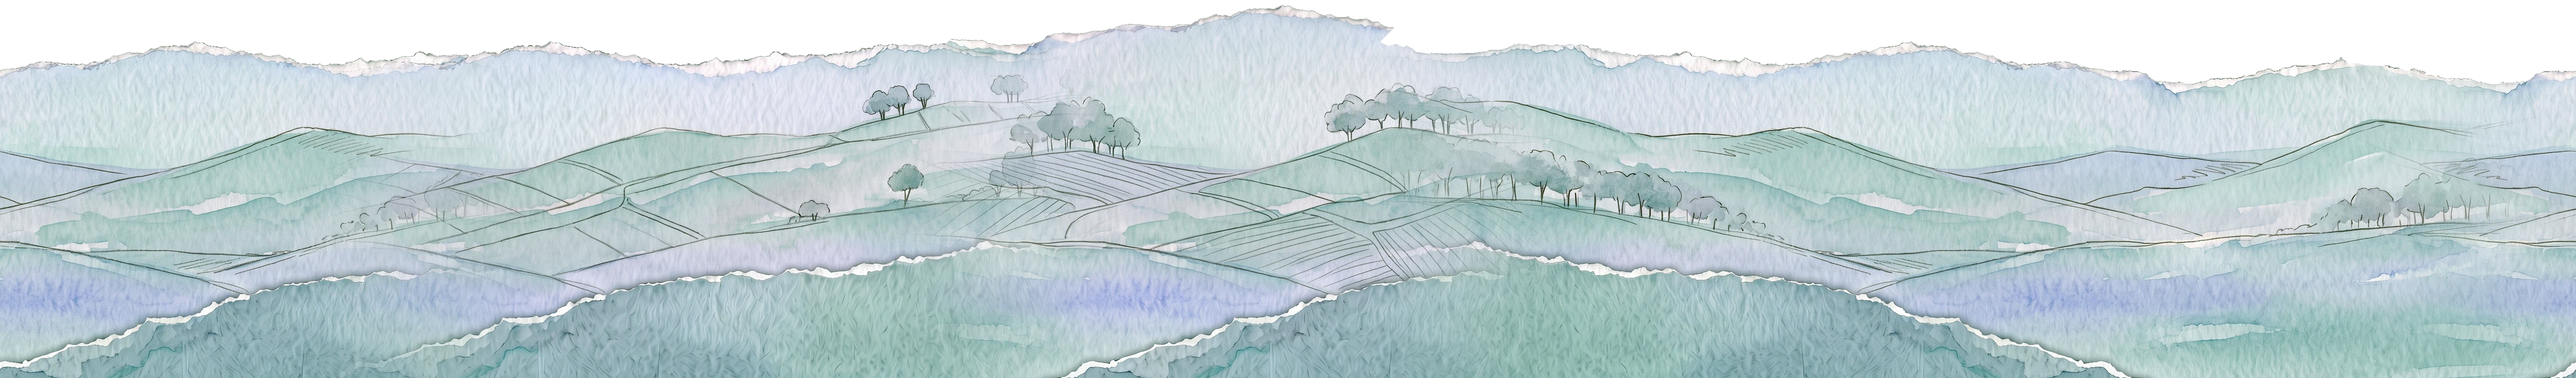
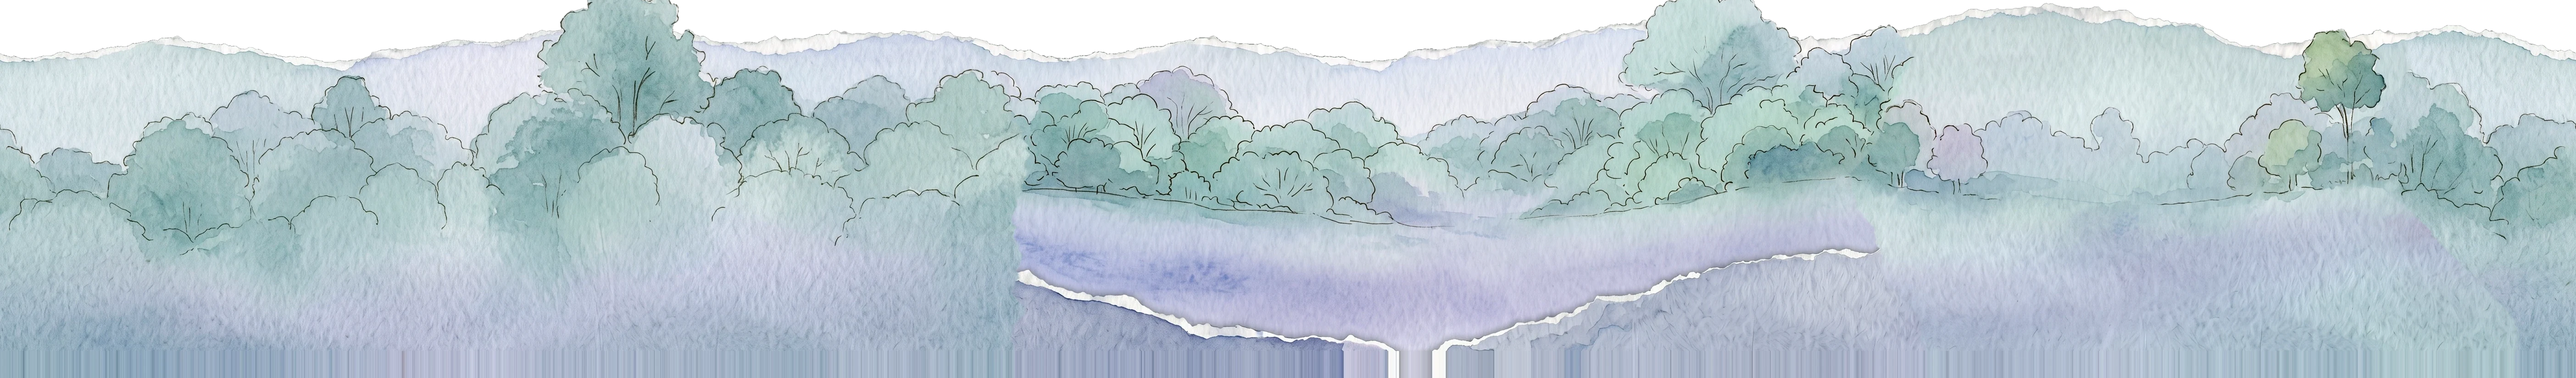
feat(friends): button's harvest field and marmalade's cottage garden (#151)
Both worlds put the words on a wall face: dark dry stone chalked in Harvest Field, cream brick in Cottage Garden. The friend sits on the coping, 170 points above the word line, and each world brings its own ground colour for tall screens. Button and Marmalade get 10-frame idles, so no friend falls back to a still sticker any more and that fallback is gone.

Sprig's idle now has all its poses painted, and Bluebell Wood's far layer is a misty tree line joined with seam cuts rather than a feathered haze.

diff --git a/HopTalesPackage/Sources/World/HareArt.swift b/HopTalesPackage/Sources/World/HareArt.swift
@@ -37,16 +37,6 @@ public struct SpriteSheet: Equatable, Sendable {
     SpriteSheet(asset, cell: cell, feet: feet, scale: size, frames: HareSheet.idle.frameCount)
   }
 
-  static func still(_ friend: Friend, cell: CGSize, feetX: CGFloat) -> SpriteSheet {
-    SpriteSheet(
-      "friend-\(friend.rawValue)",
-      cell: cell,
-      feet: CGPoint(x: feetX, y: cell.height),
-      scale: HareSheet.restHeight / cell.height,
-      frames: 1
-    )
-  }
-
   static func hop(
     _ asset: String, cell: CGSize, feet: CGPoint, standing: CGFloat, size: CGFloat = 1
   ) -> SpriteSheet {
@@ -96,14 +86,18 @@ public struct SpriteSheet: Equatable, Sendable {
       )
     ),
     .crow: (
-      .still(.crow, cell: CGSize(width: 474, height: 480), feetX: 305),
+      .idle(
+        "crow-idle-frames", cell: CGSize(width: 370, height: 369), feet: CGPoint(x: 227, y: 357)
+      ),
       .hop(
         "crow-hop", cell: CGSize(width: 338, height: 346), feet: CGPoint(x: 166, y: 336),
         standing: 259
       )
     ),
     .cat: (
-      .still(.cat, cell: CGSize(width: 369, height: 480), feetX: 124),
+      .idle(
+        "cat-idle-frames", cell: CGSize(width: 291, height: 366), feet: CGPoint(x: 150, y: 355)
+      ),
       .hop(
         "cat-hop", cell: CGSize(width: 422, height: 346), feet: CGPoint(x: 182, y: 335),
         standing: 305

diff --git a/HopTalesPackage/Sources/World/WorldStyle.swift b/HopTalesPackage/Sources/World/WorldStyle.swift
@@ -16,8 +16,8 @@ public struct WorldStyle: Equatable, Sendable {
     case .frog: return WorldStyle(ground: 0xB6AE66)
     case .crab: return WorldStyle(ground: 0xD4AF6F)
     case .grasshopper: return WorldStyle(ground: 0xC0B66D)
-    case .crow: return WorldStyle(feetAbovePath: 70, chalk: true)
-    case .cat: return WorldStyle(feetAbovePath: 70)
+    case .crow: return WorldStyle(feetAbovePath: 170, chalk: true, ground: 0xB1934A)
+    case .cat: return WorldStyle(feetAbovePath: 170, ground: 0xBFB46A)
     case .hare: return .meadow
     }
   }

diff --git a/Design/friends/tools/gen_world2.py b/Design/friends/tools/gen_world2.py
@@ -86,8 +86,8 @@ IDLE_GESTURES = {
     'grasshopper': dict(
         subject="a grasshopper", border="same satchel",
         ear=("the long antenna at the back is swept backwards", "a little, about 10 degrees", "about 20 degrees",
-             "well back, about 35 degrees"),
-        sniff="the antennae are both raised and twitching forward, feeling the air.",
+             "about 25 degrees, while the head, the eye and the front antenna stay exactly where they are"),
+        sniff="the small mouthparts and palps under the head are moving, tasting the air, the head raised a touch.",
         tilt="head", eyes="eyes"),
     'crow': dict(
         subject="a crow", border="same blue knitted cap",
@@ -145,15 +145,15 @@ def load(key, p):
     return a[:, ::-1].copy() if flip else a
 
 
-def trim_above_rim(a, allowance=140, fade=60):
+def trim_above_rim(a, allowance=140, fade=60, lo=0.25):
     from scipy import ndimage as ndi
     bright = (a[..., :3].mean(2) > 228) & (a[..., 3] > 128)
     H, Wd = bright.shape
     rim = np.full(Wd, H, np.float32)
     for x in range(Wd):
-        ys = np.nonzero(bright[int(H * 0.25):int(H * 0.85), x])[0]
+        ys = np.nonzero(bright[int(H * lo):int(H * 0.85), x])[0]
         if len(ys):
-            rim[x] = ys[0] + int(H * 0.25)
+            rim[x] = ys[0] + int(H * lo)
     rim = ndi.median_filter(rim, 301, mode='wrap')
     y = np.arange(H, dtype=np.float32)[:, None]
     keep = np.clip((y - (rim[None, :] - allowance - fade)) / fade, 0, 1)
@@ -166,10 +166,10 @@ def trim_above_rim(a, allowance=140, fade=60):
     return out
 
 
-def normalise(sec, band, ref_band):
+def normalise(sec, band, ref_band, force=False):
     cs, ts = band
     cr, tr = ref_band
-    s = tr / ts if 0.8 < tr / ts < 1.25 else 1.0
+    s = tr / ts if force or 0.8 < tr / ts < 1.25 else 1.0
     H, Wd, _ = sec.shape
     im = Image.fromarray(sec.clip(0, 255).astype(np.uint8), 'RGBA').resize((int(Wd * s), int(H * s)), Image.LANCZOS)
     b = np.asarray(im).astype(np.float32)
@@ -217,9 +217,12 @@ def build(key, names):
             allow = int(os.environ.get(name.upper() + '_ALLOW', 90))
             secs = [trim_above_rim(s, allowance=allow) for s in secs]
         if name == 'near':
-            secs = [trim_above_rim(s, allowance=int(os.environ.get('NEAR_ALLOW', 110)), fade=40) for s in secs]
+            wall = c['mode'] == 'wall'
+            if not wall:
+                secs = [trim_above_rim(s, allowance=int(os.environ.get('NEAR_ALLOW', 110)), fade=40)
+                        for s in secs]
             ref_band = band_of(c['mode'], secs[0], key)
-            secs = [normalise(s, band_of(c['mode'], s, key), ref_band) for s in secs]
+            secs = [normalise(s, band_of(c['mode'], s, key), ref_band, force=wall) for s in secs]
             print('bands', [band_of(c['mode'], s, key) for s in secs], flush=True)
         n = len(secs)
         span = float(os.environ.get(name.upper() + '_SPAN', 0.42))
@@ -248,7 +251,7 @@ def build(key, names):
         im = Image.fromarray(tile.clip(0, 255).astype(np.uint8), 'RGBA')
         if name == 'near':
             cr, tr = ref_band
-            s = BAND[1] / tr
+            s = (float(os.environ.get('WALL_T', 230)) if c['mode'] == 'wall' else BAND[1]) / tr
             im = im.resize((int(im.width * s), int(im.height * s)), Image.LANCZOS)
             y0 = int(round(cr * s - BAND[0]))
         else:
@@ -281,6 +284,8 @@ def build(key, names):
         o = np.asarray(out).astype(np.float32)
         print(name, dict(size=out.size, sections=paths, ridge=float(np.median(np.argmax(o[..., 3] > 128, 0)))),
               flush=True)
+        if name == 'near' and c['mode'] == 'wall':
+            print('wall band (final px)', band_of('wall', o, key), flush=True)
 
 
 def idle_prompts(key):
@@ -299,7 +304,8 @@ def idle_prompts(key):
         'ear': f"{ear} {e3}.",
         'tilt-1': "the head is tilted a little downwards, about 4 degrees.",
         'tilt-2': "the head is tilted downwards about 8 degrees, curious.",
-        'tilt': "the head is tilted downwards about 12 degrees, looking at something on the ground.",
+        'tilt': ("the head is tilted downwards about 10 degrees, pivoting where it meets the body, looking at "
+                 "something on the ground; the head stays the same size and in the same place."),
         'sniff': g['sniff'],
     }
 
@@ -322,7 +328,7 @@ def gen_idle(key, _):
         out = os.path.join(idle_raw(key), f'{name}.png')
         if os.path.exists(out):
             continue
-        im, _, _ = nb.generate(base + change, [base_img], aspect='3:4', size='1K')
+        im, _, _ = nb.generate(base + change, [base_img], aspect=os.environ.get('IDLE_ASPECT', '3:4'), size='1K')
         im.convert('RGB').resize(base_img.size, Image.LANCZOS).save(out)
         print(out, flush=True)
 
@@ -348,7 +354,7 @@ def build_idle(key, _):
     rest = W.keyed(os.path.join(idle_raw(key), 'rest.png'))
     fit, move_all, face, (top, bottom) = head_regions(key, rest)
     frames = [rest]
-    stand_in = {'ear': 'ear-2', 'ear-2': 'ear-1', 'sniff': 'ear-1', 'tilt': 'blink-half', 'tilt-1': 'rest',
+    stand_in = {'ear': 'ear-2', 'ear-2': 'ear-1', 'sniff': 'ear-1', 'tilt': 'tilt-2', 'tilt-1': 'rest',
                 'tilt-2': 'rest', 'blink-half': 'blink', 'ear-1': 'rest'}
     for name in NAMES[1:]:
         pick = name

diff --git a/Design/friends/tools/gen_wood.py b/Design/friends/tools/gen_wood.py
@@ -39,7 +39,13 @@ LAYERS = {
                     "bluebells with ferns, a few white wood anemones and mossy stones, then the lower torn edge and "
                     "deep green moss at the bottom as before. No trees."),
 }
-SOURCES = {'far': ['far-src', 'far-src2', 'far-src3'], 'mid': ['mid-src', 'mid-src2', 'mid-src3'],
+LAYERS['far-trees'] = EDIT + (
+    "Turn the rolling hills into the distant edge of a bluebell wood seen across a valley: a continuous tree line "
+    "of soft rounded blue-green canopies, oak and beech crowns overlapping, their tops forming the ragged upper "
+    "edge of the strip, with a few taller crowns rising above the rest. Misty and pale with distance, cool "
+    "blue-green and a hint of lilac, low contrast, only faint ink linework, no individual trunks, no fields and "
+    "no field lines. Towards the lower part of the strip the trees fade into a soft haze of bluebell lilac.")
+SOURCES = {'far-trees': ['far-src', 'far-src2', 'far-src3'], 'far': ['far-src', 'far-src2', 'far-src3'], 'mid': ['mid-src', 'mid-src2', 'mid-src3'],
            'near': ['near-src', 'near-src2', 'near-src3']}
 TARGET = {'far': (5615, 826), 'mid': (4692, 834), 'near': (3555, 834)}
 
@@ -51,6 +57,8 @@ def gen(names):
     for name in names:
         for i, src in enumerate(SOURCES[name]):
             out = os.path.join(RAW, f'{name}-{i + 1}.png')
+            if name == 'far-trees':
+                out = os.path.join(RAW, f'far-{i + 6}.png')
             if os.path.exists(out):
                 continue
             ref = Image.open(os.path.join(MEADOW, f'{src}.png'))
@@ -102,7 +110,7 @@ def build(names):
             pieces.append(secs[i][:, x_in:x_out])
             xp, xq = joins[i]
             A, B = secs[i][:, xp:xp + C.O], secs[(i + 1) % n][:, xq:xq + C.O]
-            if name == 'far':
+            if name == 'far' and not os.environ.get('FAR_SEAM'):
                 w = np.linspace(0, 1, C.O)[None, :, None]
                 w = w * w * (3 - 2 * w)
                 blend = A * (1 - w) + B * w
@@ -138,7 +146,7 @@ def build(names):
         if yd + hh < H:
             canvas[yd + hh:] = canvas[yd + hh - 1]
         if name == 'far':
-            k = np.array([1.7, 1.55, 1.7])
+            k = np.array([1.7, 1.55, 1.7]) * float(os.environ.get('FAR_K', 1)) + 1 - float(os.environ.get('FAR_K', 1))
             rgb = canvas[..., :3].astype(np.float32)
             canvas[..., :3] = (255 - (255 - rgb) * k).clip(0, 255).astype(np.uint8)
         out = Image.fromarray(canvas, 'RGBA').resize((W, H), Image.LANCZOS)
